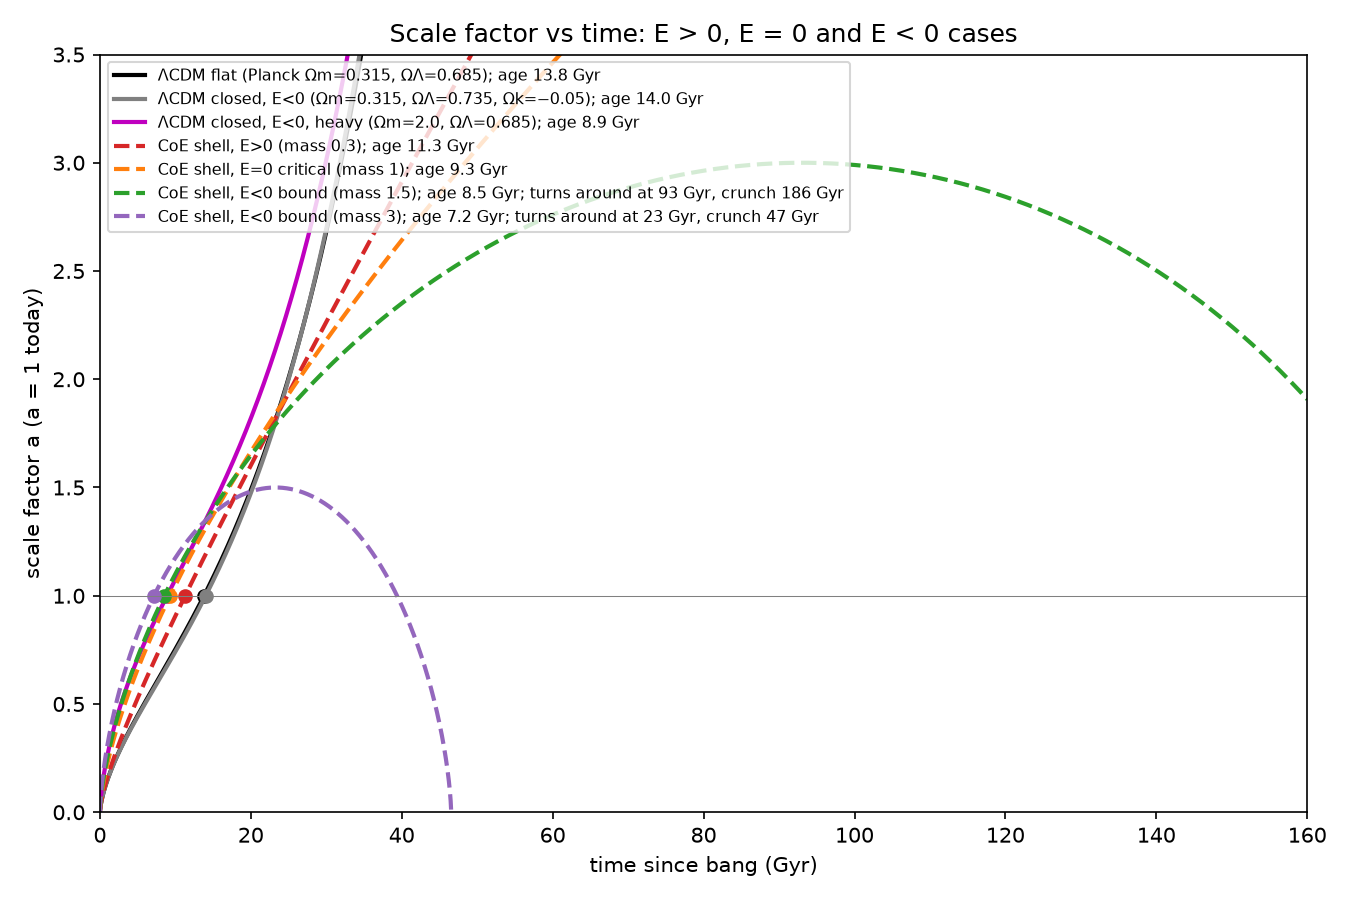
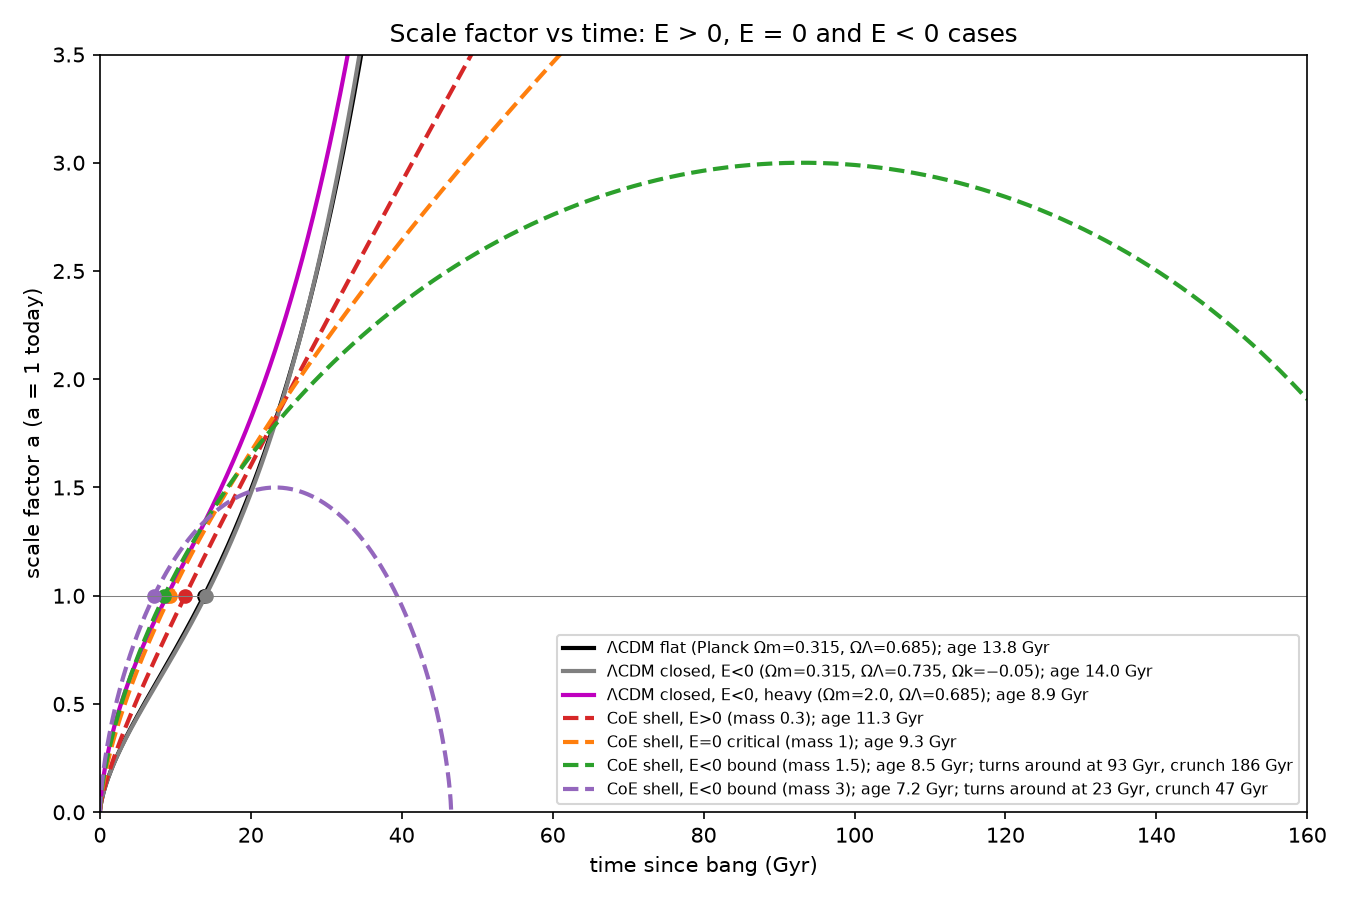
Scale factor plot: legend lower right

Changed region(s): [[0.0622, 0.0622, 0.6222, 0.28], [0.4044, 0.6844, 0.9644, 0.9022]]

diff --git a/draft/current/figure_sources/src/scale_factor/plot_a_bound.py b/draft/current/figure_sources/src/scale_factor/plot_a_bound.py
@@ -26,5 +26,5 @@ for i,(lab,H0,Om,OL,c,ls) in enumerate(cases):
 ax.axhline(1,color='grey',lw=.5); ax.set_xlim(0,160); ax.set_ylim(0,3.5)
 ax.set_xlabel("time since bang (Gyr)"); ax.set_ylabel("scale factor a (a = 1 today)")
 ax.set_title("Scale factor vs time: E > 0, E = 0 and E < 0 cases")
-ax.legend(fontsize=7.5,loc='upper left'); fig.tight_layout(); fig.savefig("scale_factor_bound.png",dpi=150)
+ax.legend(fontsize=7.5,loc='lower right'); fig.tight_layout(); fig.savefig("scale_factor_bound.png",dpi=150)
 np.savez("scale_factor_bound.npz",**out)
